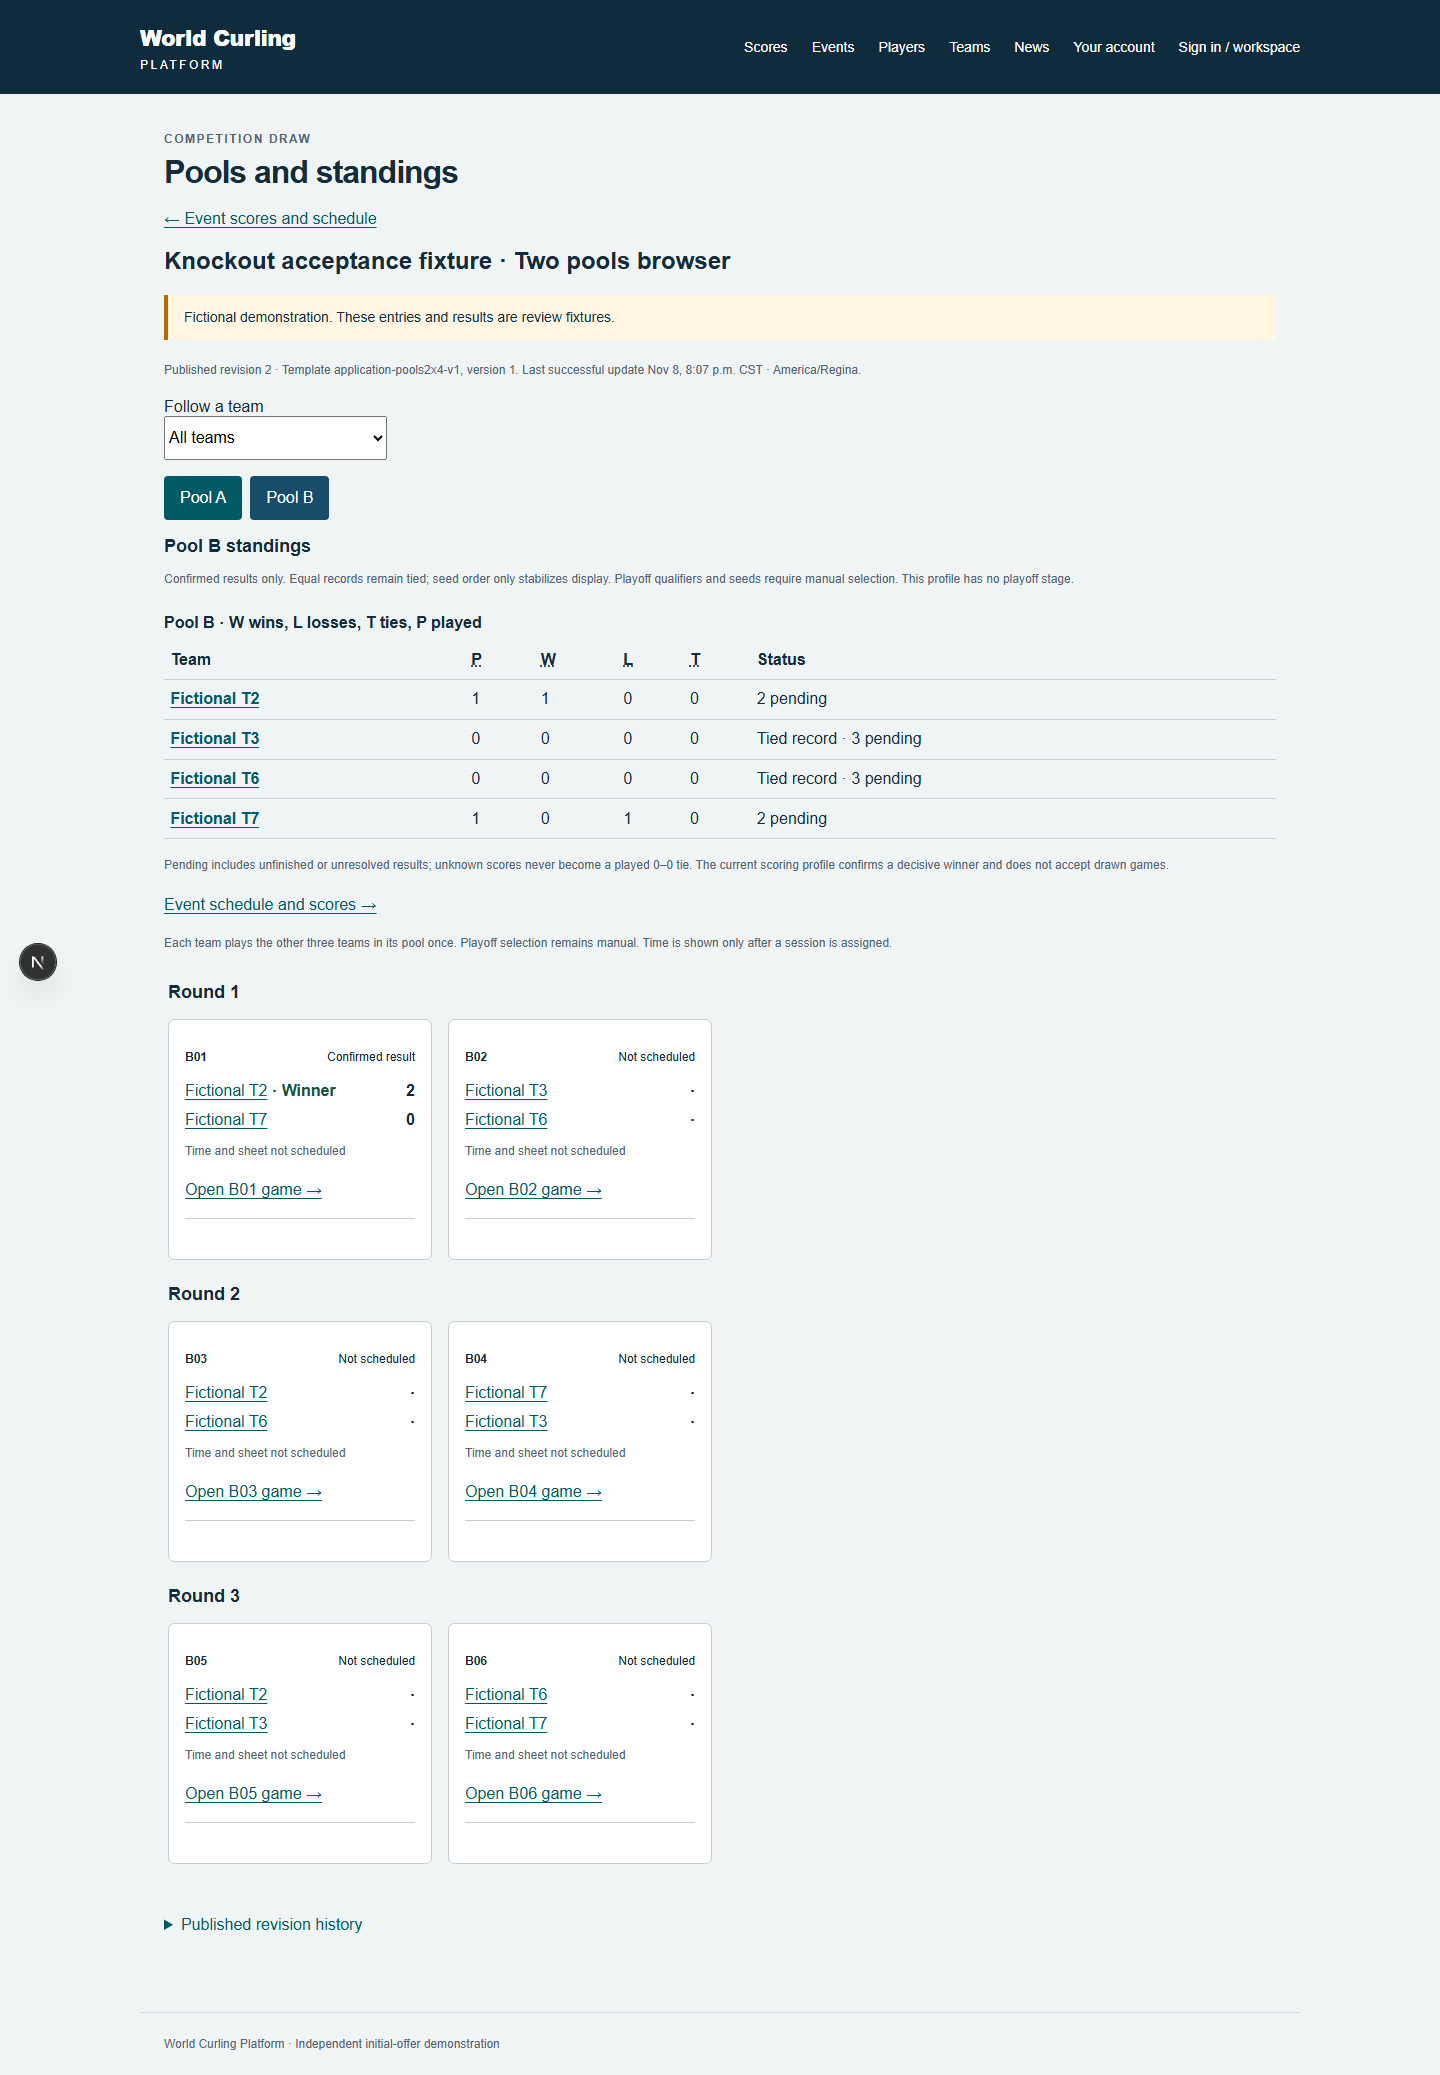
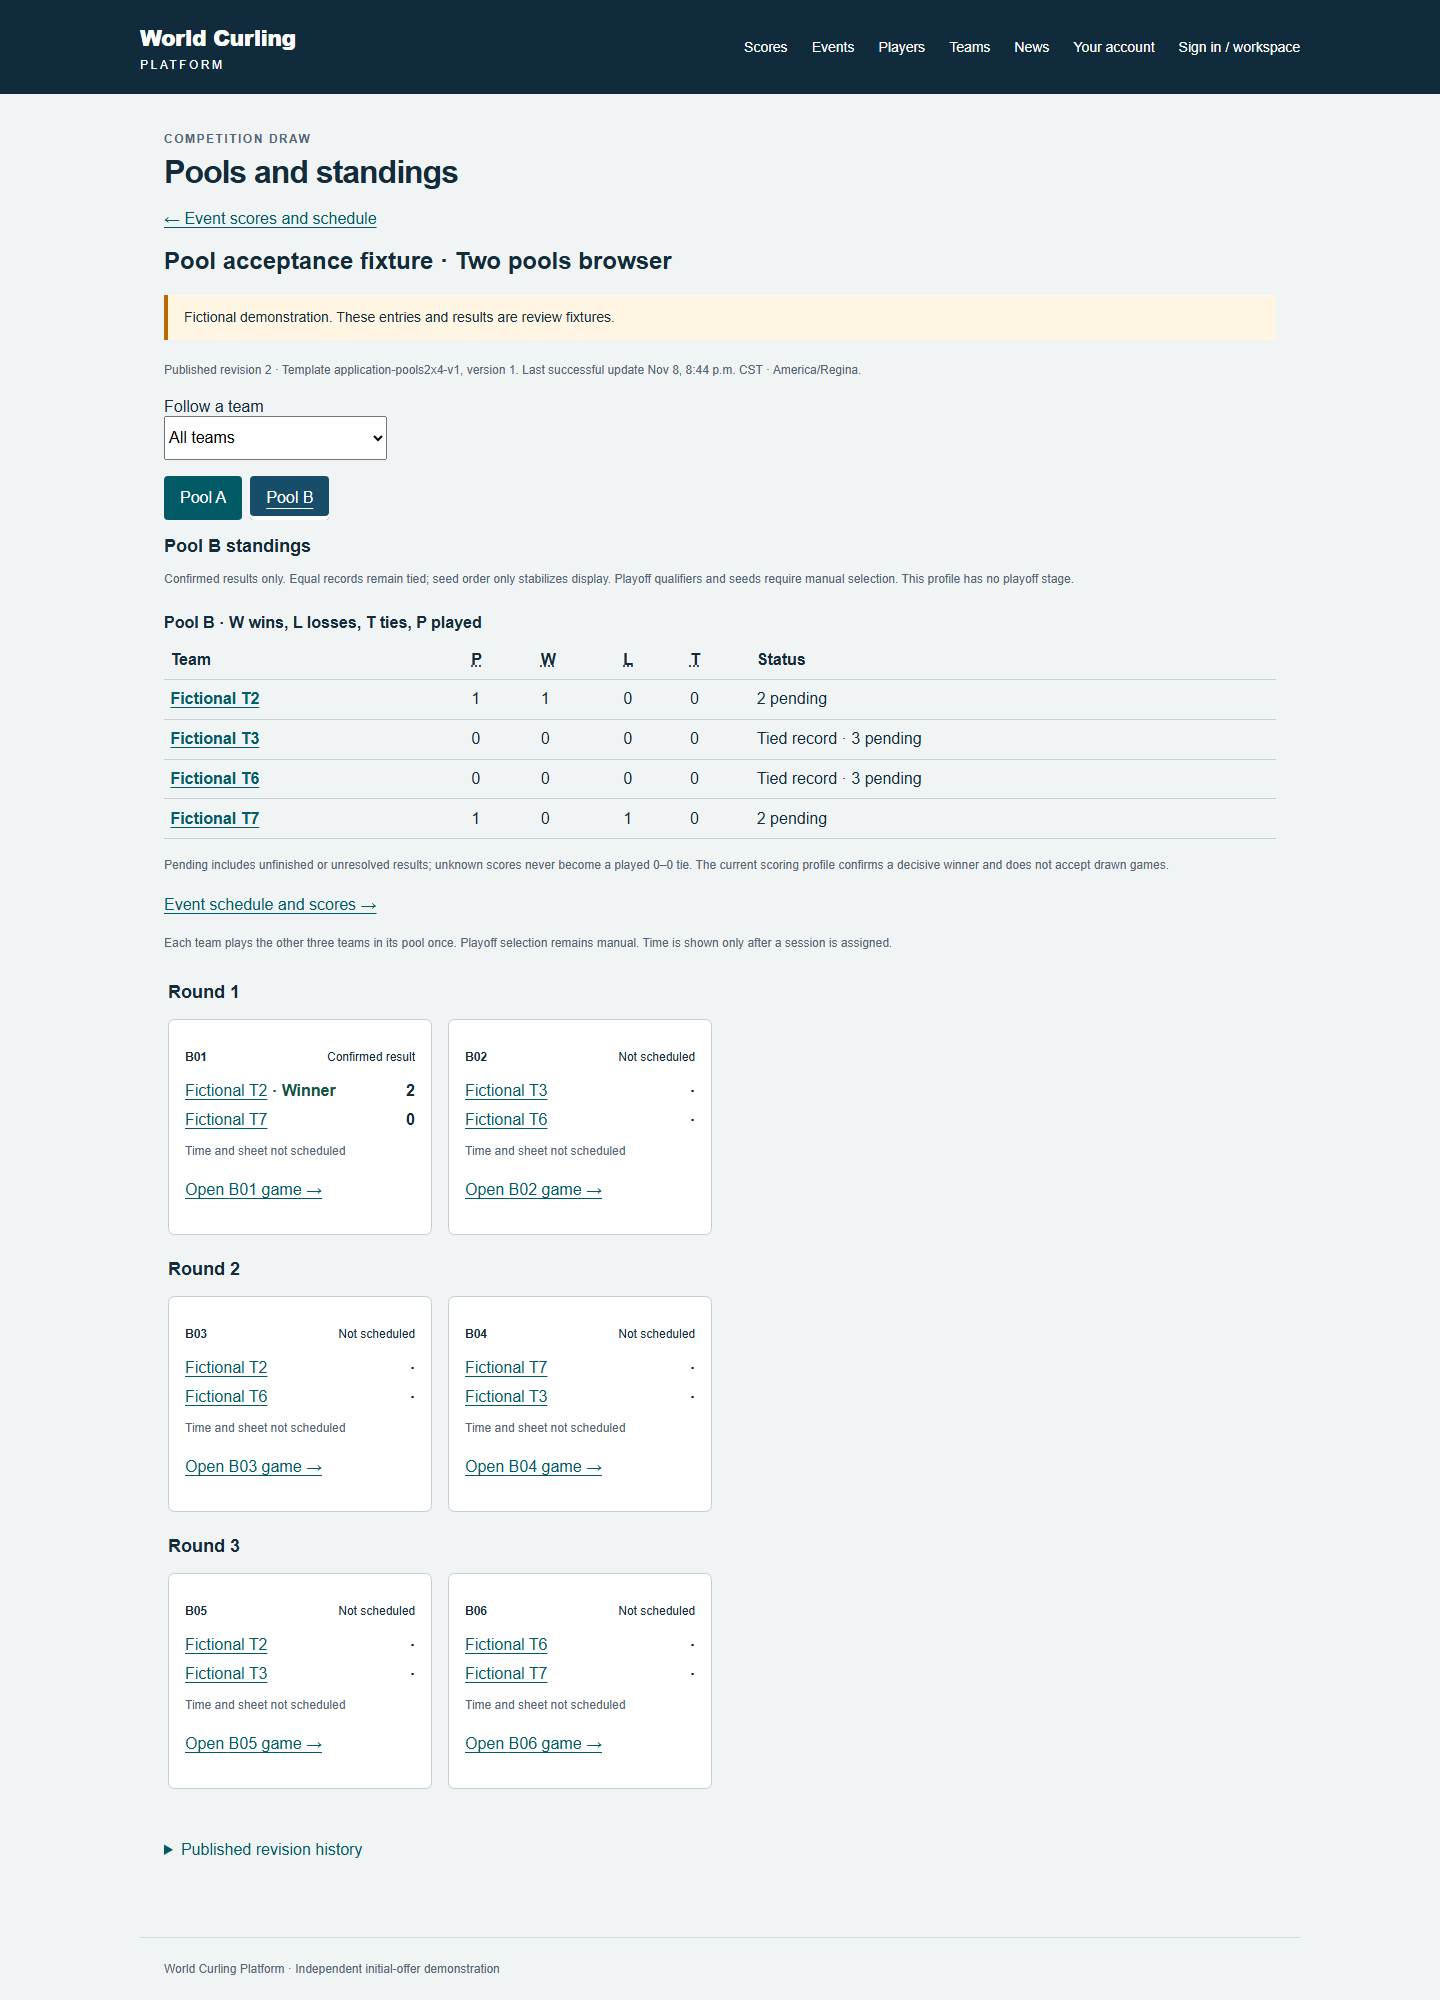
WCP-022: record production verification and inspected responsive pool views

diff --git a/docs/verification/WCP-022.md b/docs/verification/WCP-022.md
@@ -1,6 +1,35 @@
 # WCP-022 verification
 
-Implementation checkpoint; verification is incomplete. Based on formally accepted integration `cd1329d387de372bd3f0beccd720d47f6b472db2`. Tracker closure belongs to independent integration review.
+Ready for independent review. Final runtime source `2b2fa245be173118c2a635ea8efa1de01f8dcf82` includes formally accepted integration `7a892b69eb5a3b9d198b5b233f743f6b433bcd2b` (the update from `cd1329d` was documentation only). Final build/typecheck, 93 domain tests, 5 pool HTTP cases and 44 affected production browser cases pass. The complete standard HTTP command passed 120/120 at `fc64241`; its only later runtime delta is the stricter explicit public pool-row allowlist, verified by the final domain/HTTP/browser runs. Pending007/034 source was not imported. Tracker closure belongs to independent integration review.
+
+## Final results
+
+All paths below are under the project's durable ignored `.runtime/wcp022/`, outside this disposable worktree, unless stated otherwise. Runtime source stayed frozen during each suite; API and browser runs were sequential.
+
+| Command / scope | Actual result and retained evidence |
+| --- | --- |
+| `npm run build`; `npm run typecheck` | Final source passed; `build-final.log`, `typecheck-final.log`. |
+| `npm run test:coverage` |93/93 passed; `coverage-final.log`. Three pool domain tests independently verify every literal fixture, 12 full outcomes, duplicate exclusion, pending/unknown and tied records, plus the explicit public field allowlist. Assessment mapping preserves exact ID/version/family and association/evidence gates without inferred playoff qualification. Coverage is descriptive, with no percentage gate. |
+| `npm run test:api` |120/120 passed, zero skipped/failed,544.25s; `api-full-production.log`, source `fc64241`. All inherited files remain in the standard command. |
+| `npx tsx --test tests/pools-api.test.ts` | Final source5/5 passed,3.82s; `pools-api-final.log`.12 actual scoring confirmations, independent A/B records, no duplicate counting or automatic qualifiers, exact retries, played correction, admitted-only/current-complete field/family/capacity checks, current authority before receipts, real edition wait graph,12 required unscheduled games blocking finalization, controlled audit rollback with 503 then exact retry, immutable revision rejection and public privacy. |
[1 lines of base64/hex data omitted]
+| Public phone navigation smoke | Passed against the actual seeded pool edition: event -> pools -> selected-team empty filter -> actual game -> pool -> schedule -> browser back. No console/page errors. `public-navigation.mjs`, `public-navigation.log`, `public-navigation.zip`, inspected `public-navigation.png`. |
[1 lines of base64/hex data omitted]
+| Worker/runtime | Standard `npm run worker:probe` passed (`worker-standard-probe.log`). A separate detached long-lived worker remained active and handled the subsequent producer-only probe (`worker-handoff-probe.log`); the standard probe alone is not treated as proof of persistent service liveness. Web port 3122 returned200 for the actual seeded pool draw. |
+
+Exact affected browser command:
+
+```text
+npx playwright test tests/browser/draws.spec.ts tests/browser/triple-draws.spec.ts tests/browser/pools.spec.ts tests/browser/scores.spec.ts tests/browser/scoring.spec.ts tests/browser/scheduling.spec.ts tests/browser/registration-draw.spec.ts tests/browser/finalization.spec.ts tests/browser/event-assessments.spec.ts --output=C:/Users/brthi/Projects/world-curling-platform-2/.runtime/wcp022/browser-final-results
+```
+
+`PLAYWRIGHT_HTML_OUTPUT_DIR` selected the durable `browser-final-report` directory. The four new pool cases all passed at 360/768/1440px, with actual scoring/polling, selected-pool/focus/back preservation, arrow-key tabs, axe, console/network checks, interrupted exact-command recovery across reload, loading/empty/stale/retry and denied reviewer states. Final production screenshots `assets/WCP-022-phone.png`, `WCP-022-tablet.png`, `WCP-022-desktop.png`, `WCP-022-stale.png` were each opened and inspected. They contain deliberately fictional public data. The separate seeded long-name phone table was also inspected in the navigation smoke. Complete generated assets were archived as `browser-final-generated-assets/`; the three inherited WCP-009 PNG changes were restored after archival. Only the inspected WCP-022 PNGs are committed. Local-file account mail was archived outside the worktree as `account-mail-archive/`; credentials, mail, reports and runtime media are ignored and uncommitted.
+
+At final review, no owned fault-injection triggers remained. `git diff --check` and accepted-tip ancestry checks passed. The restart configuration is `C:/Users/brthi/Projects/world-curling-platform-2/.runtime/wcp022/start-runtime.ps1`, reading its private `runtime.env`. It starts hidden web/worker processes from this worktree and waits for worker readiness. Re-probe the public draw URL and run `long-worker-probe.mjs` after handoff; saved process/session IDs do not establish continued liveness. Media remains under durable `.runtime/wcp022/media`.
+
+The supported slice is four-player, exactly two pools of four. No automatic sporting tiebreak, cross-pool ranking, qualifier selection, playoff stage or champion is generated. Exact assessment classification does not claim a fully evidenced pool-only WCTRS award workflow or supply manual final placements. Unrelated browser workflows and hosted/provider acceptance are not claimed by this ticket; hosting/domain remain user-pending. The retained failures and checkpoint scope below are historical evidence, not current open verification failures.
+
+## Earlier checkpoints and retained failures
 
 Adopted application profile `application-pools2x4-v1`, version 1: eight entries, A seeds 1/4/5/8, B 2/3/6/7, three rounds and six games per pool. These exact assignments and pairings are application choices, not official rules. Coordinator adoption and independent fixtures are in the external `format-profile-research.md` referenced by `docs/agents/research-index.md`. No automatic qualifiers, cross-pool ordering, playoff stage or champion are generated. Equal records remain sporting ties; seed only stabilizes display. The accepted four-player result command requires a decisive winner: the public ties column stays zero without an explicitly supported drawn result, and unknown/unfinished games never become played 0–0 ties.
 
@@ -21,18 +50,20 @@ Actual checkpoint commands/results:
 
 Screenshots: `docs/verification/assets/WCP-022-phone.png`, `WCP-022-tablet.png`, `WCP-022-desktop.png`; phone PNG inspected at checkpoint. These are fictional fixtures. Production screenshots and remaining inspection are pending.
 
-Still required: full inherited HTTP/browser regressions, explicit loading/empty/error/stale/exact-retry browser paths, complete fresh migration/seed/repeat/hash evidence, repeat seed preserving operator changes, production build/typecheck, real long-lived worker/probe, final formally accepted integration merge and affected reruns. No completion claim yet.
+At that checkpoint these checks were still required: full inherited HTTP/browser regressions, explicit loading/empty/error/stale/exact-retry browser paths, complete fresh migration/seed/repeat/hash evidence, repeat seed preserving operator changes, production build/typecheck, real long-lived worker/probe, final formally accepted integration merge and affected reruns. The final results above supersede that incomplete checkpoint.
 
 ## Production rerun checkpoint
 
-Still incomplete. Expanded domain and coverage commands passed92/92; pool module99.13% lines (unexecuted type-import line1),100% functions/branches reported by V8. This metric is descriptive; independent literal fixtures and real workflows are the acceptance evidence.
+Verification was incomplete at this historical checkpoint. Expanded domain and coverage commands passed92/92; pool module99.13% lines (unexecuted type-import line1),100% functions/branches reported by V8. This metric is descriptive; independent literal fixtures and real workflows are the acceptance evidence.
 
 The recovery browser test first failed because the inherited public draw view let an aborted fetch clear a newer fetch's loading indicator. Request freshness/abort guards now retain the loading state, and headings stay generic until a supported stored profile is known. Focused recovery1/1 passed: successful preview response deliberately lost, reload retained the exact pool profile/seeds and locked editing, identical retry returned revision1 without duplicate history; loading, stale retained pool B, retry recovery, empty404 and denied reviewer UI all exercised. Retained full reports/results: `.runtime/wcp022/browser-states-first-report`/`browser-states-first-results` (3/4 passed) and `browser-recovery-second-report`/`browser-recovery-second-results` (focused1/1). The stale PNG was inspected, as were the phone/tablet/desktop PNGs. Production PNG replacements are pending.
 
-Fresh database `wcp022_fresh`: all25 checked-in migrations applied, seed and repeat migrate/seed passed. Every stored migration SHA256 matched its file. Before/after repeat-seed hashes of all seeded game rows were `95b44ca1a2ca09a1a0989c77d571f68d`; draw revisions `2aaf5bc079d94e62a31f273793a8a501`. Logs `fresh-migrate.log`, `fresh-seed.log`, `fresh-hashes.log`, `fresh-repeat-migrate.log`, `fresh-repeat-seed.log`, `fresh-repeat-hashes.log`. A deliberately modified disposable copy of0029 was rejected by the actual migrator as an applied migration change (`hash-rejection.log`); accepted SQL files were untouched.
+Fresh database `wcp022_fresh`: all 25 checked-in migrations applied, seed and repeat migrate/seed passed. Every stored migration SHA256 matched its file. Before/after repeat-seed hashes of all seeded game rows were `95b44ca1a2ca09a1a0989c77d571f68d`; draw revisions `2aaf5bc079d94e62a31f273793a8a501`. Logs `fresh-migrate.log`, `fresh-seed.log`, `fresh-hashes.log`, `fresh-repeat-migrate.log`, `fresh-repeat-seed.log`, `fresh-repeat-hashes.log`. A deliberately modified disposable copy of0029 was rejected by the actual migrator as an applied migration change (`hash-rejection.log`); accepted SQL files were untouched.
 
 First full `npm run test:api`:119 tests,116 passed/3 failed,676.43s (`api-full-first.log`). The three assessment-worker failures were a runtime setup error: the long-lived worker was absent at run start. Started it during that run; the later worker checks and all four pool cases passed. This is a failed full run, not a substitute for the required clean rerun. The owned detached worker subsequently completed an external producer-only probe with output `{status:ready,probeId}` (`long-worker-probe-second.log`). An initial probe raced worker queue startup; the restart script now waits for its readiness log. Runtime restart/config/probe files are in `.runtime/wcp022/`; no session-ID liveness assumption.
 
 Pool cases now include actual PostgreSQL edition wait-graph/lower-row availability, all12 required unscheduled games blocking finalization, exclusion of pending/held/invited/expired registrations, known-team collision and foreign-division denial. An additional actual audit-failure transaction fixture initially expected500 but the service correctly returned503; its expected status was corrected. It will be included in the production rerun. Fault triggers are removed in `finally`; a read-only pre-rerun check confirmed none remained.
 
-Final UI adjustments between runs give each preview pool its own section, name event/game public links from the actual stored template ID, use real game links for selected pool-team games, explain an empty filtered pool list, and visibly underline the active pool tab. `docs/pools-profile.md` documents the bounded rules, source/application distinction and operating flow. Typecheck passed after these adjustments. Build, production full HTTP rerun and affected production browser suite remain required before handoff.
+Final UI adjustments between runs give each preview pool its own section, name event/game public links from the actual stored template ID, use real game links for selected pool-team games, explain an empty filtered pool list, and visibly underline the active pool tab. `docs/pools-profile.md` documents the bounded rules, source/application distinction and operating flow. Typecheck passed after these adjustments. The build, production full HTTP rerun and affected production browser suite were still pending then; final results are recorded above.
+
+After the 120/120 production HTTP pass, a focused domain red test demonstrated that spreading the input entry object could forward extra private properties. The final runtime delta explicitly selects seed/entryId/name before adding statistics; the new allowlist test and complete 93-domain run passed. `public-allowlist-red.log` retains the meaningful 2/3 red run. The final 5-case HTTP and 44-case production browser union ran on this stricter source after merging the accepted documentation-only tip.
